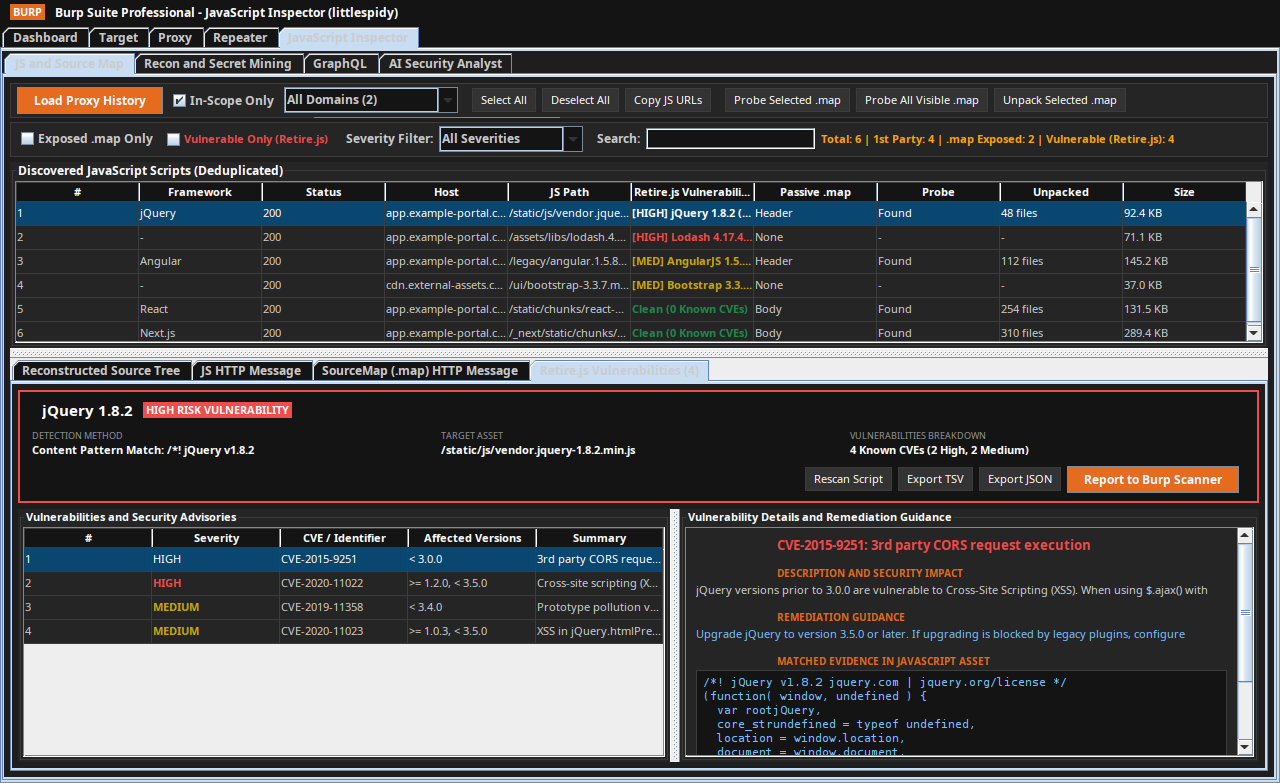
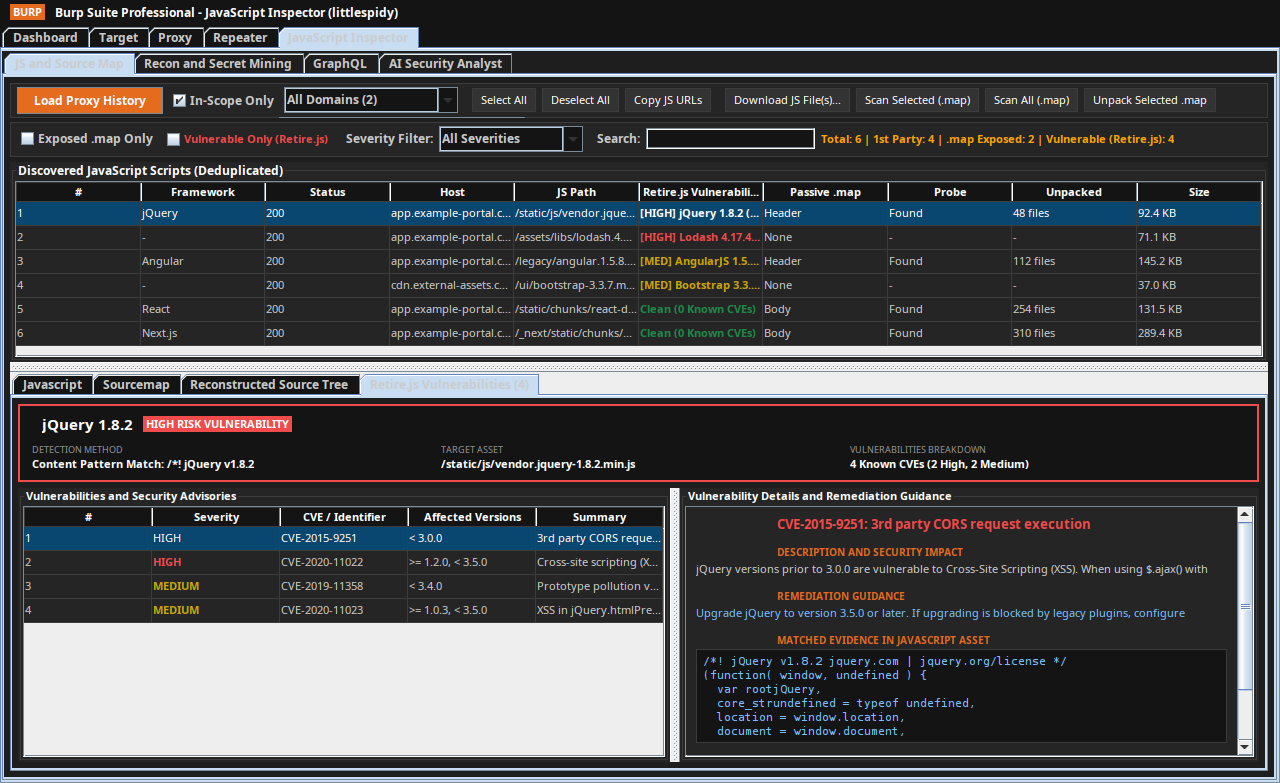
Update Retire.js UI previews with reordered tabs, buttons, and cleaned summary card

diff --git a/JavaScriptInspector_littlespidy/retirejs_ui_preview_littlespidy.html b/JavaScriptInspector_littlespidy/retirejs_ui_preview_littlespidy.html
@@ -581,14 +581,14 @@
       <button class="btn">Deselect All</button>
       <button class="btn">Copy JS URLs</button>
       <div class="sep"></div>
-      <button class="btn">Probe Selected .map</button>
-      <button class="btn">Probe All Visible .map</button>
-      <button class="btn">Unpack Selected .map</button>
       <button class="btn">Download JS File(s)...</button>
+      <button class="btn">Scan Selected (.map)</button>
+      <button class="btn">Scan All (.map)</button>
+      <button class="btn">Unpack Selected .map</button>
       <div class="sep"></div>
       <!-- Retire.js Actions -->
-      <button class="btn btn-highlight" onclick="scanSelectedRetireJs()">Scan Selected (Retire.js)</button>
-      <button class="btn btn-highlight" onclick="scanAllRetireJs()">Scan All Visible (Retire.js)</button>
+      <button class="btn btn-highlight" onclick="scanSelectedRetireJs()">Scan Selected (Retire JS)</button>
+      <button class="btn btn-highlight" onclick="scanAllRetireJs()">Scan All (Retire JS)</button>
       <select title="Retire.js Vulnerability Database">
         <option>Retire.js DB: v3.0.4 (Online / 3,420 signatures)</option>
         <option>Update Retire.js DB Online...</option>
@@ -742,9 +742,9 @@
       <!-- Bottom Section: Inspection Tabs -->
       <div class="bottom-container">
         <div class="sub-tabs">
+          <div class="sub-tab" onclick="switchSubTab('js-http', this)">Javascript</div>
+          <div class="sub-tab" onclick="switchSubTab('map-http', this)">Sourcemap</div>
           <div class="sub-tab" onclick="switchSubTab('tree', this)">Reconstructed Source Tree</div>
-          <div class="sub-tab" onclick="switchSubTab('js-http', this)">JS HTTP Message</div>
-          <div class="sub-tab" onclick="switchSubTab('map-http', this)">SourceMap (.map) HTTP Message</div>
           <!-- Integrated Retire.js Tab -->
           <div class="sub-tab active" onclick="switchSubTab('retire', this)">
             Retire.js Vulnerabilities <span class="tab-badge" id="tabBadge">4</span>
@@ -760,12 +760,6 @@
               <div class="retire-lib-title">
                 <span id="libTitleText">jQuery 1.8.2</span>
                 <span id="libBadge" class="badge badge-high">HIGH RISK VULNERABILITY</span>
-              </div>
-              <div class="action-row">
-                <button class="btn" onclick="alert('Rescanning script against Retire.js...')">Rescan Script</button>
-                <button class="btn" onclick="alert('Vulnerabilities exported to clipboard in TSV format.')">Export TSV</button>
-                <button class="btn" onclick="alert('Vulnerabilities exported to JSON.')">Export JSON</button>
-                <button class="btn btn-primary" onclick="alert('Montoya AuditIssue created under Burp Target / Dashboard!')">Report to Burp Scanner</button>
               </div>
             </div>
 

diff --git a/JavaScriptInspector_littlespidy/src/test/java/com/littlespidy/jssourcemapexplorer/ui/RetireJsSwingPreviewRunner_littlespidy.java b/JavaScriptInspector_littlespidy/src/test/java/com/littlespidy/jssourcemapexplorer/ui/RetireJsSwingPreviewRunner_littlespidy.java
@@ -160,17 +160,18 @@ public class RetireJsSwingPreviewRunner_littlespidy {
         bar1.add(createDarkButton("Deselect All"));
         bar1.add(createDarkButton("Copy JS URLs"));
         bar1.add(new JSeparator(SwingConstants.VERTICAL));
-        bar1.add(createDarkButton("Probe Selected .map"));
-        bar1.add(createDarkButton("Probe All Visible .map"));
+        bar1.add(createDarkButton("Download JS File(s)..."));
+        bar1.add(createDarkButton("Scan Selected (.map)"));
+        bar1.add(createDarkButton("Scan All (.map)"));
         bar1.add(createDarkButton("Unpack Selected .map"));
         bar1.add(new JSeparator(SwingConstants.VERTICAL));
 
         // Retire.js buttons
-        JButton scanSelectedRetireBtn = createDarkButton("Scan Selected (Retire.js)");
+        JButton scanSelectedRetireBtn = createDarkButton("Scan Selected (Retire JS)");
         scanSelectedRetireBtn.setForeground(new Color(0x79, 0xc0, 0xff));
         bar1.add(scanSelectedRetireBtn);
 
-        JButton scanAllRetireBtn = createDarkButton("Scan All Visible (Retire.js)");
+        JButton scanAllRetireBtn = createDarkButton("Scan All (Retire JS)");
         scanAllRetireBtn.setForeground(new Color(0x79, 0xc0, 0xff));
         bar1.add(scanAllRetireBtn);
 
@@ -285,14 +286,14 @@ public class RetireJsSwingPreviewRunner_littlespidy {
         scriptsPanel.add(new JScrollPane(table), BorderLayout.CENTER);
         mainSplit.setTopComponent(scriptsPanel);
 
-        // Bottom Inspection Tabs
+        // Bottom Inspection Tabs: Javascript, Sourcemap, Reconstructed Source Tree, Retire.js
         JTabbedPane bottomTabs = new JTabbedPane();
         bottomTabs.setBackground(COLOR_DARK);
         bottomTabs.setForeground(COLOR_TEXT);
 
+        bottomTabs.addTab("Javascript", new JPanel());
+        bottomTabs.addTab("Sourcemap", new JPanel());
         bottomTabs.addTab("Reconstructed Source Tree", new JPanel());
-        bottomTabs.addTab("JS HTTP Message", new JPanel());
-        bottomTabs.addTab("SourceMap (.map) HTTP Message", new JPanel());
 
         // Sub-Tab 4: Retire.js Vulnerabilities Panel
         JPanel retirePanel = createRetireJsTabPanel();
@@ -343,18 +344,6 @@ public class RetireJsSwingPreviewRunner_littlespidy {
         metaGrid.add(createMetaLabel("VULNERABILITIES BREAKDOWN", "4 Known CVEs (2 High, 2 Medium)"));
 
         headerCard.add(metaGrid, BorderLayout.CENTER);
-
-        JPanel actionRow = new JPanel(new FlowLayout(FlowLayout.RIGHT, 6, 0));
-        actionRow.setBackground(COLOR_DARK);
-        actionRow.add(createDarkButton("Rescan Script"));
-        actionRow.add(createDarkButton("Export TSV"));
-        actionRow.add(createDarkButton("Export JSON"));
-        JButton burpReportBtn = new JButton("Report to Burp Scanner");
-        burpReportBtn.setBackground(COLOR_ACCENT);
-        burpReportBtn.setForeground(Color.WHITE);
-        actionRow.add(burpReportBtn);
-
-        headerCard.add(actionRow, BorderLayout.SOUTH);
         panel.add(headerCard, BorderLayout.NORTH);
 
         // -- Split View: Left CVE Table vs Right Detail Inspector --
